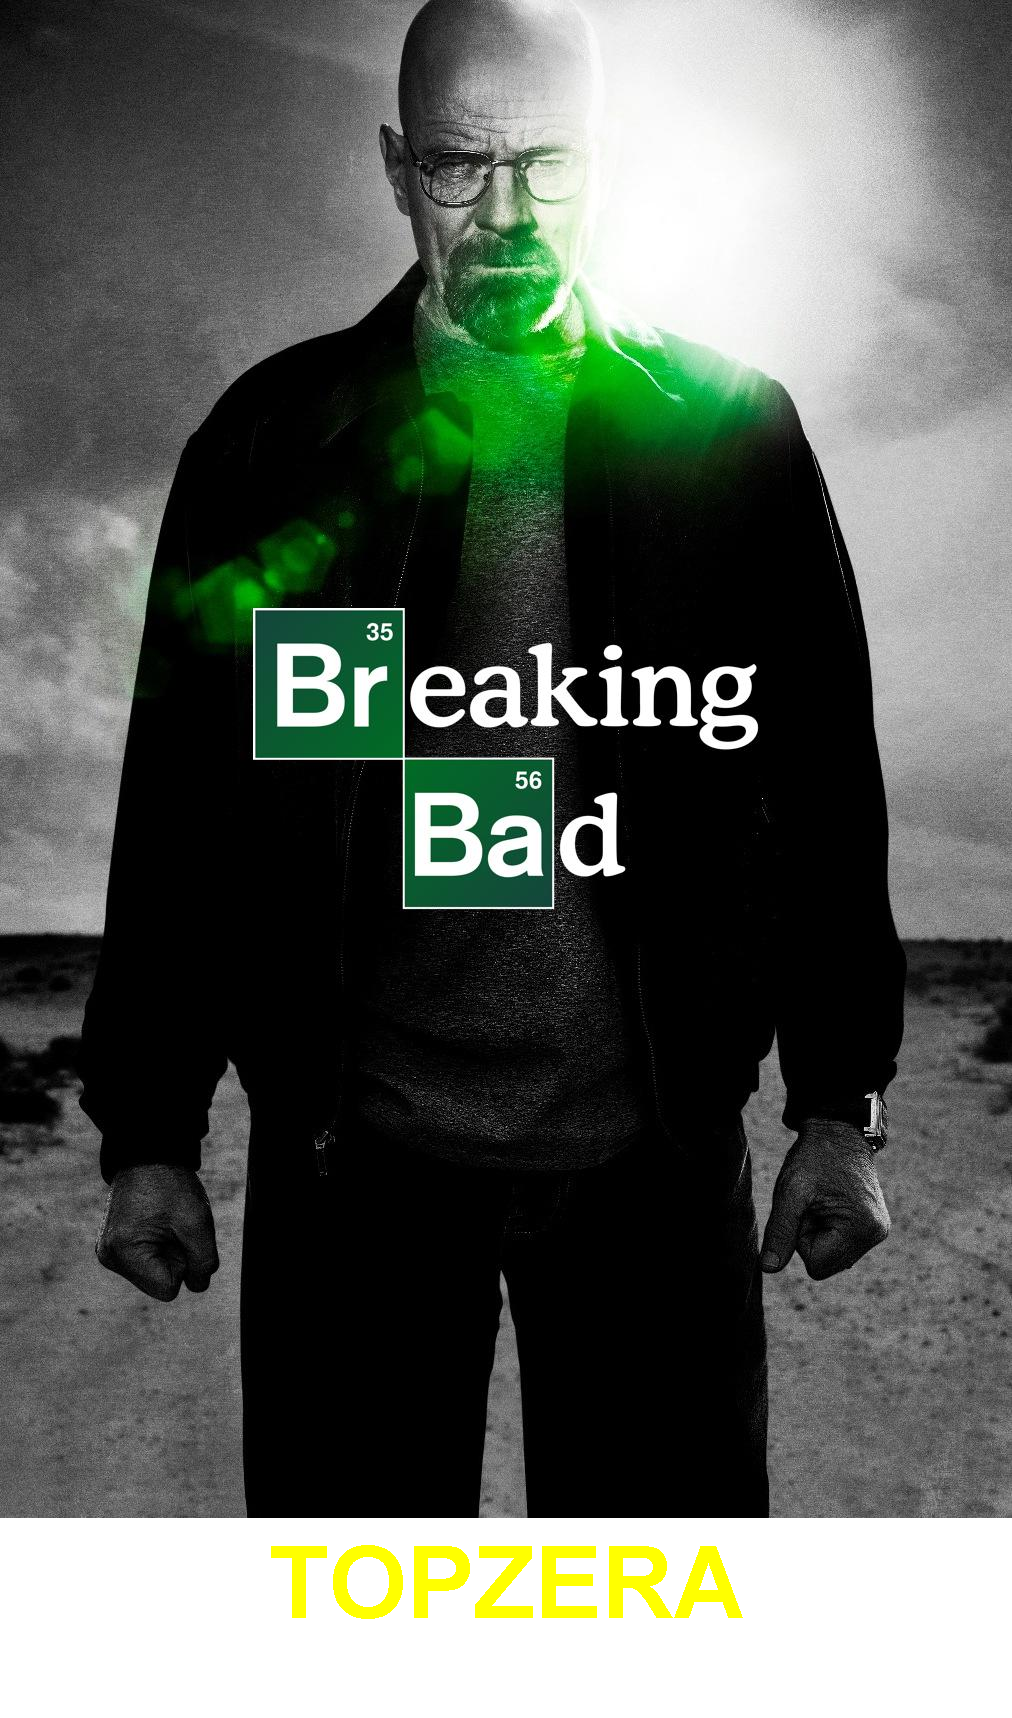
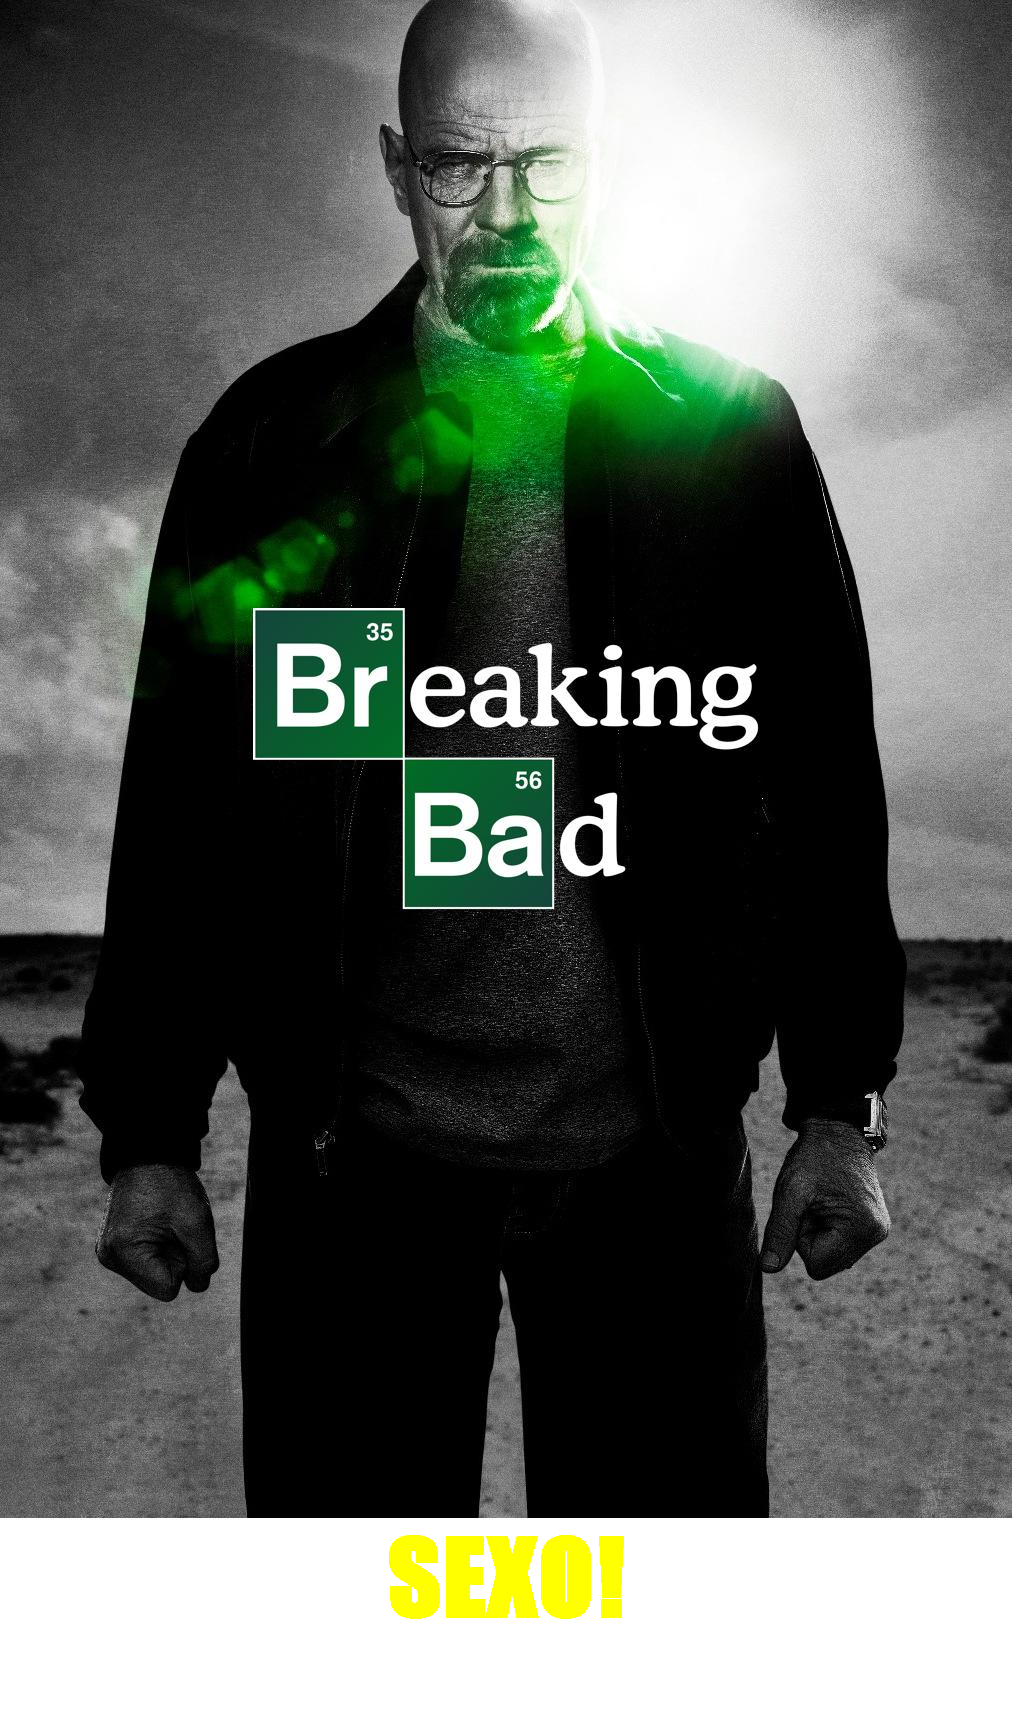
terminando o processo de sobrepor a figurinha com icone referente a qualidade

Changed region(s): [[0.2757, 0.8946, 0.7352, 0.9563]]

diff --git a/src/GeradorStickers.java b/src/GeradorStickers.java
@@ -2,9 +2,11 @@ import java.awt.Color;
 import java.awt.Font;
 import java.awt.FontMetrics;
 import java.awt.Graphics2D;
+import java.awt.Image;
 import java.awt.geom.Rectangle2D;
 import java.awt.image.BufferedImage;
 import java.io.File;
+import java.io.InputStream;
 import java.net.URL;
 
 import javax.imageio.ImageIO;
@@ -14,7 +16,7 @@ public class GeradorStickers {
   public GeradorStickers() {
   }
 
-  public void criar(String urlImagem, String nomeFilme, String fraseAdicionada) throws Exception{
+  public void criar(String urlImagem, String nomeFilme, String fraseAdicionada, InputStream imagemAvaliacao) throws Exception{
 
     // Passando a imagem para URL
     URL urlImagemURL =  new URL(urlImagem);
@@ -32,6 +34,8 @@ public class GeradorStickers {
     Graphics2D graphics = (Graphics2D) novaImagem.getGraphics();
     graphics.drawImage(imagemOriginal, 0, 0, null);
     
+    // Criando sobreposicao
+    BufferedImage imagemSobreposicao = ImageIO.read(imagemAvaliacao);
     // Escrever frase na imagem
     // Configurando fonta
     var fonte = new Font("impact", Font.BOLD, 100);
@@ -46,16 +50,18 @@ public class GeradorStickers {
     int posicaoTexto = (largaura - larguraTexto) / 2;
 
     graphics.drawString(texto, posicaoTexto, novaAltura - 100);
+    graphics.drawImage(imagemSobreposicao,  0, novaAltura - imagemSobreposicao.getHeight(), null);
 
     // Escrever em arquivo
+    nomeFilme = nomeFilme.replaceAll(":", "");
     ImageIO.write(novaImagem, "png", new File("saida/" + nomeFilme + ".png"));
 
   }
   
-  public static void main(String[] args) throws Exception {
-    GeradorStickers geradorStickers = new GeradorStickers();
-    geradorStickers.criar("https://raw.githubusercontent.com/alura-cursos/imersao-java-2-api/main/TopTVs_2.jpg", "BreakingBad",  "SEXO!");
-  }
+ // public static void main(String[] args) throws Exception {
+    //GeradorStickers geradorStickers = new GeradorStickers();
+    // geradorStickers.criar("https://raw.githubusercontent.com/alura-cursos/imersao-java-2-api/main/TopTVs_2.jpg", "BreakingBad",  "SEXO!");
+ //}
 
 
 }

diff --git a/src/App.java b/src/App.java
@@ -1,3 +1,6 @@
+import java.io.File;
+import java.io.FileInputStream;
+import java.io.InputStream;
 import java.util.List;
 import java.util.Map;
 import java.util.Scanner;
@@ -48,12 +51,15 @@ public class App {
             } else if (opcaoVizualicao == 3){
                 //OBJETO e METODO de Stickers
                 GeradorStickers geradorStickers = new GeradorStickers();
-                if(notaEmDouble >= 8.5){
-                    geradorStickers.criar(filme.get("image"), filme.get("title"), "MASTERPIECE");
-                } else if(notaEmDouble <= 8.5 && notaEmDouble >= 6.5){
-                    geradorStickers.criar(filme.get("image"), filme.get("title"), "BOM CONTEUDO");
+                if(notaEmDouble >= 8.7){
+                    InputStream imagemAvaliacao = new FileInputStream(new File("sobreposicao/masterpeca.png"));
+                    geradorStickers.criar(filme.get("image"), filme.get("title"), "MASTERPIECE", imagemAvaliacao);
+                } else if(notaEmDouble <= 8.7 && notaEmDouble >= 7.5){
+                    InputStream imagemAvaliacao = new FileInputStream(new File("sobreposicao/bom.png"));
+                    geradorStickers.criar(filme.get("image"), filme.get("title"), "BOM CONTEUDO", imagemAvaliacao);
                 } else{
-                    geradorStickers.criar(filme.get("image"), filme.get("title"), "UMA MERDA");
+                    InputStream imagemAvaliacao = new FileInputStream(new File("sobreposicao/ruim.png"));
+                    geradorStickers.criar(filme.get("image"), filme.get("title"), "UMA MERDA", imagemAvaliacao);
                 }
             } else{
                 throw new RuntimeException("Opção Inexistente");
